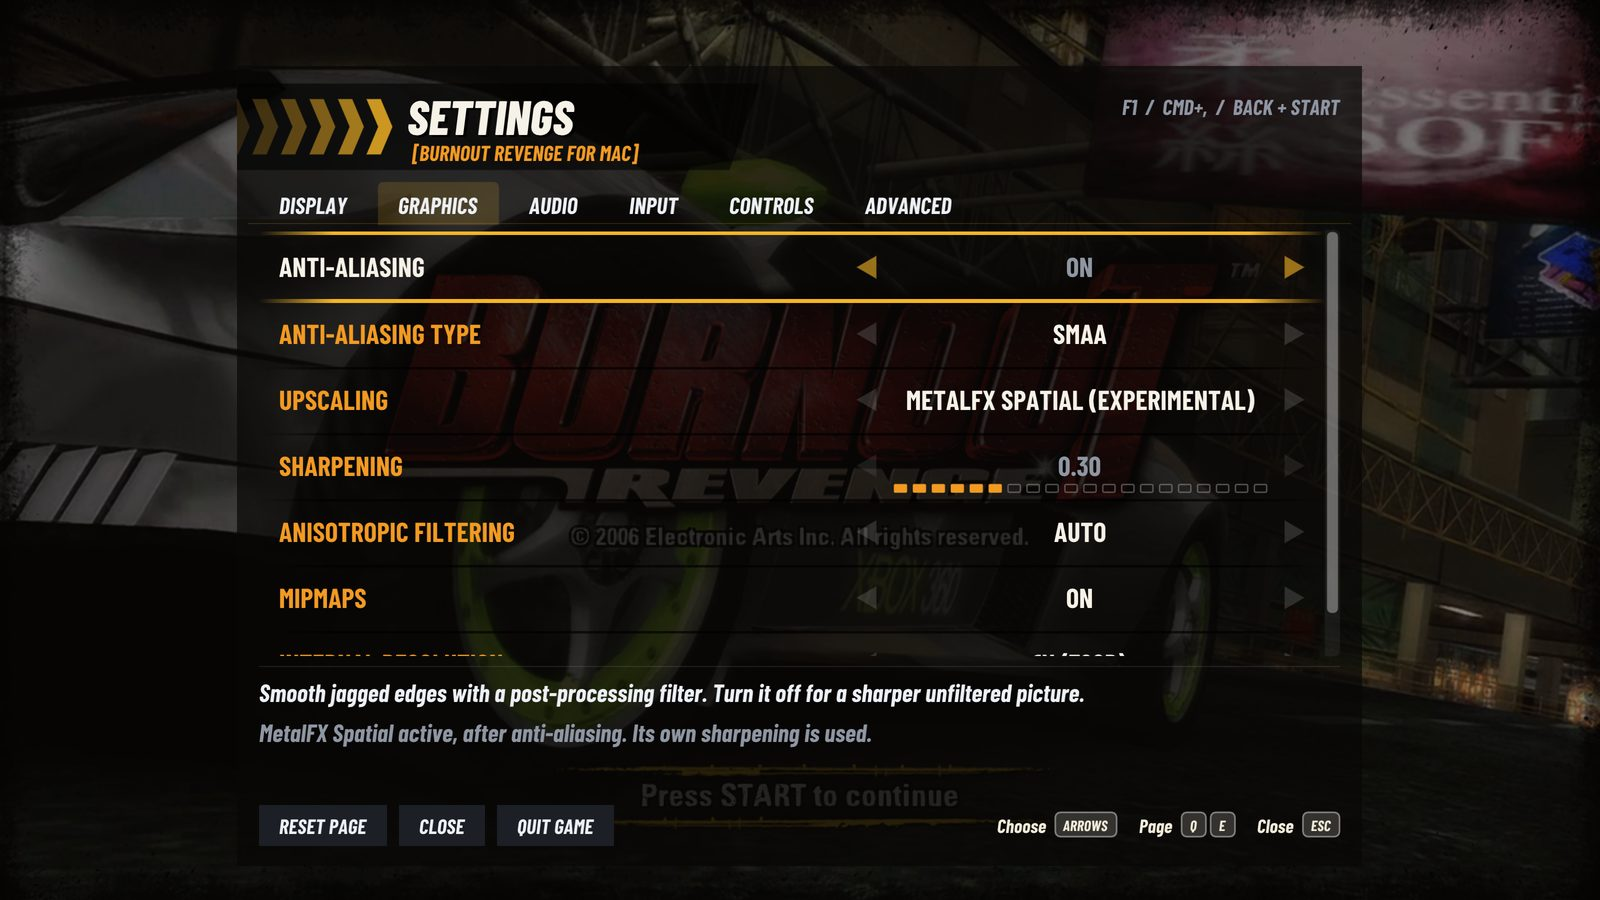
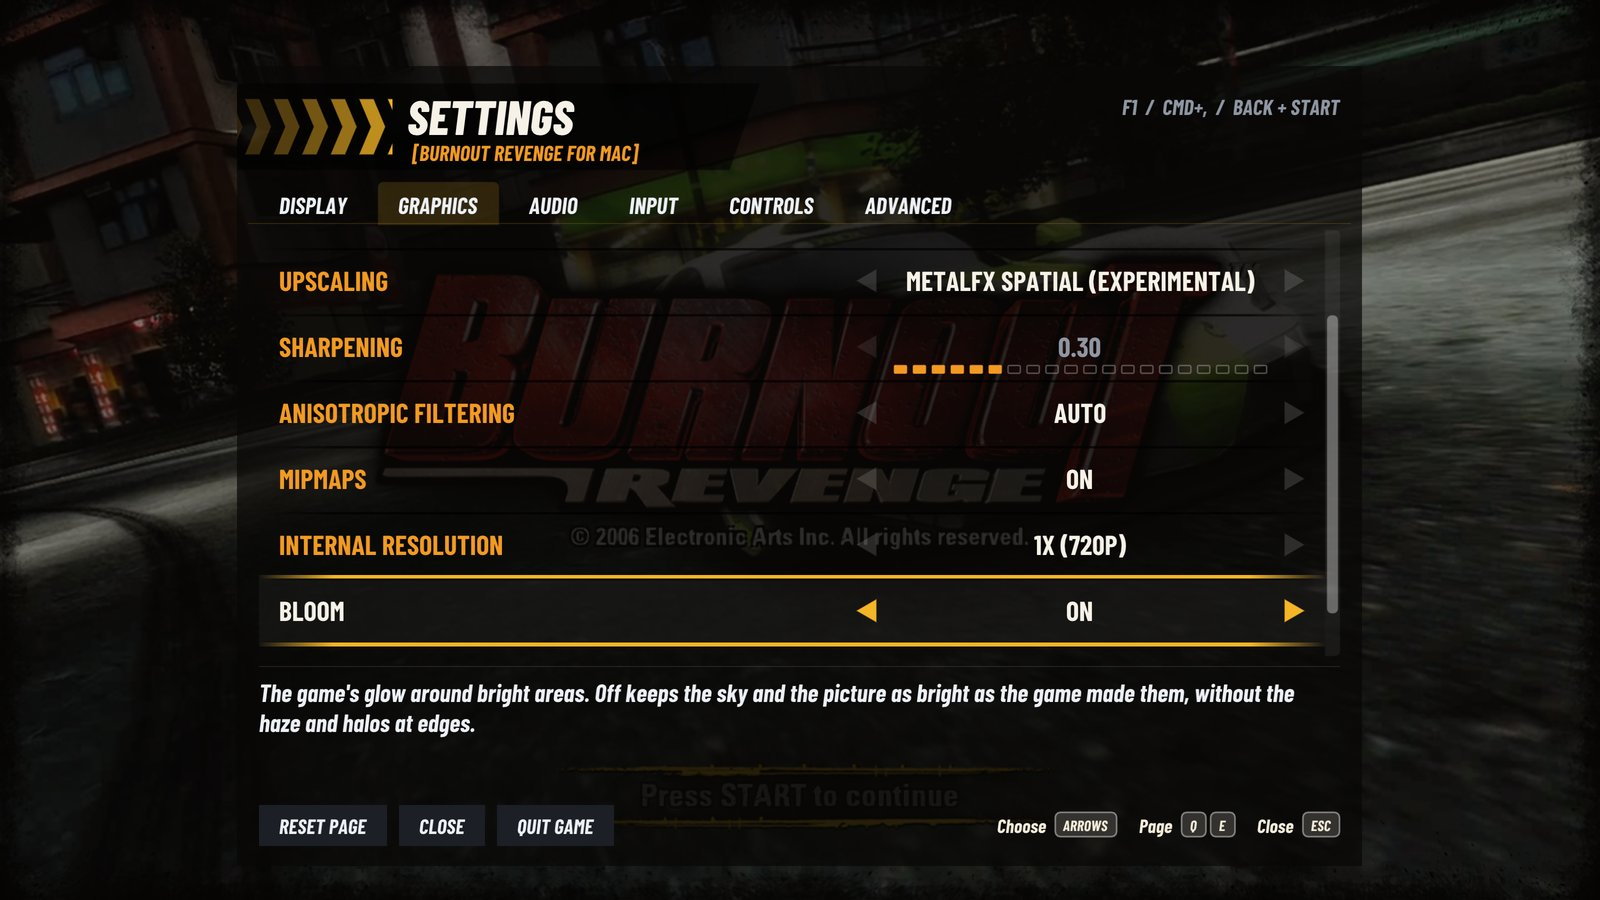
Prepare v0.1.9: README with the game's button prompts, Bloom and Motion Blur, new screenshots

diff --git a/README.md b/README.md
@@ -45,7 +45,7 @@
     <td width="50%"><img src="docs/screenshots/race-wide-window.jpg" alt="A race in the same wide window: the scene widens to the edges, the HUD keeps its shape"><br><sub>Wide windows show more of the road (Hor+).</sub></td>
   </tr>
   <tr>
-    <td width="50%"><img src="docs/screenshots/settings-graphics.jpg" alt="The port's settings menu over the title screen, on the Graphics page: Anti-Aliasing, SMAA, MetalFX Spatial upscaling, Sharpening, Anisotropic Filtering, Mipmaps"><br><sub>The port's settings, Graphics page.</sub></td>
+    <td width="50%"><img src="docs/screenshots/race-bloom-off-dualsense.jpg" alt="Traffic Attack with Bloom off: a blue sky, palms and buildings crisp against it, and PRESS cross TO BOOST with a DualSense"><br><sub>Bloom off, the sky kept; the game's prompts for a DualSense.</sub></td>
     <td width="50%"><img src="docs/screenshots/setup-make-it-yours.jpg" alt="The first-run setup on its second page: the cover art on the left, the install folder and the add-on car packs on the right"><br><sub>First-run setup.</sub></td>
   </tr>
 </table>
@@ -81,8 +81,12 @@
 - Any window shape: a wider window shows more at the sides (Hor+), a taller one
   (16:10, 4:3) more above and below (Vert+), with the HUD kept in shape.
   Widescreen keeps the original 16:9 with bars.
+- Bloom and Motion Blur switches. Bloom off removes the game's haze and the
+  glow round edges but keeps its bright blue sky: the glow is kept where it
+  comes from rather than switched off. Motion Blur off keeps speed sharp.
 - 60 fps, as the console. Fullscreen, V-Sync, and Cmd+H and Cmd+Tab that work
-  in fullscreen.
+  in fullscreen. On an external 144 or 165 Hz monitor, a one-time note says how
+  to set it to a rate 60 fps divides evenly.
 
 **Sound and music**
 
@@ -99,8 +103,10 @@
   (Share + Options on a DualSense) opens the settings anywhere.
 - Full keyboard play. Every Xbox 360 control can take two keys, remapped in
   the Controls page; bindings are physical keys, so they work on any layout.
-- Button hints in the port's menus follow the device you use: PlayStation
-  shapes, Xbox buttons or key caps.
+- Button prompts follow the device you use, in the port's menus and in the
+  game's own (menus, Replay, "PRESS TO BOOST!"): PlayStation shapes with a
+  DualSense, your keys as Mac key caps with the keyboard, Xbox buttons
+  otherwise. Settings > Input > Button Prompts can keep one set.
 
 **A menu in the game's own style**
 
@@ -118,6 +124,7 @@
   let the game find `XBOX360/454107DC/00000002` on a mounted drive.
 - Save backups: each launch backs up your saves when they changed (the newest
   10 are kept). Settings > Advanced > Save Backups restores one.
+- Skip Intro Movies (on by default): the title screen in about 8 seconds.
 - Save Bug Report gathers the logs and settings into one file; Check for
   Updates asks GitHub for a newer release.
 
@@ -156,20 +163,23 @@ Open with **F1**, **Cmd+,** or **Back + Start**. LB/RB (Q/E) switch pages.
 
 <table>
   <tr>
-    <td width="33%"><img src="docs/screenshots/settings-display.jpg" alt="Settings, Display page: Fullscreen, V-Sync, Frame Rate, Aspect Ratio, Brightness, Xbox 360 Display Gamma"><br><sub>Display.</sub></td>
-    <td width="33%"><img src="docs/screenshots/settings-graphics.jpg" alt="Settings, Graphics page"><br><sub>Graphics.</sub></td>
-    <td width="33%"><img src="docs/screenshots/settings-audio-my-music.jpg" alt="Settings, Audio page: Music set to My Music, Music Folder with 2 files"><br><sub>Audio, with My Music.</sub></td>
+    <td width="50%"><img src="docs/screenshots/settings-display.jpg" alt="Settings, Display page: Fullscreen, V-Sync, Frame Rate, Aspect Ratio, Brightness, Xbox 360 Display Gamma"><br><sub>Display.</sub></td>
+    <td width="50%"><img src="docs/screenshots/settings-graphics.jpg" alt="Settings, Graphics page scrolled to Bloom, with its description"><br><sub>Graphics, Bloom.</sub></td>
+  </tr>
+  <tr>
+    <td width="50%"><img src="docs/screenshots/settings-audio-my-music.jpg" alt="Settings, Audio page: Music set to My Music, Music Folder with 2 files"><br><sub>Audio, with My Music.</sub></td>
+    <td width="50%"><img src="docs/screenshots/settings-input.jpg" alt="Settings, Input page: Button Prompts set to Auto"><br><sub>Input, Button Prompts.</sub></td>
   </tr>
 </table>
 
 | Page | What's there |
 |---|---|
 | Display | Fullscreen, V-Sync, Frame Rate, Aspect Ratio (fill any window, or 16:9), Brightness, Xbox 360 Display Gamma |
-| Graphics | Anti-Aliasing and its type (SMAA, FXAA), Upscaling (Bicubic, Bilinear, FSR 1, MetalFX Spatial), Sharpening, Anisotropic Filtering, Mipmaps, Internal Resolution |
+| Graphics | Anti-Aliasing and its type (SMAA, FXAA), Upscaling (Bicubic, Bilinear, FSR 1, MetalFX Spatial), Sharpening, Anisotropic Filtering, Mipmaps, Internal Resolution, Bloom, Motion Blur |
 | Audio | Master Volume, Mute, Mute in Background, Music (EA Trax or My Music), Music Folder |
-| Input | Stick and trigger deadzones, Vibration, DualSense raw HID driver |
+| Input | Stick and trigger deadzones, Vibration, Button Prompts (Auto, Xbox, PlayStation, Keyboard), DualSense raw HID driver |
 | Controls | Two keys for each Xbox 360 control |
-| Advanced | Asynchronous Shaders, Performance Overlay, Auto-import Add-ons, Save Bug Report, Check for Updates, Add-ons, Save Backups, About |
+| Advanced | Asynchronous Shaders, Performance Overlay, Auto-import Add-ons, Skip Intro Movies, Save Bug Report, Check for Updates, Add-ons, Save Backups, About |
 
 A good start on an M1 Pro: 1.5x internal resolution (1080p), SMAA, Bicubic,
 sharpening 0.3 and 16x anisotropic filtering. Use 1x if the GPU can't keep
@@ -200,10 +210,8 @@ Every key can be changed in Settings > Controls.
   may behave differently. USB is the fallback for a Bluetooth pad.
 - A complete career playthrough isn't verified yet. Online play and Xbox Live
   don't work.
-- 57 rarely used system functions are still stubs; none was called in tested
-  races.
-- The game's own button prompts (inside its menus and HUD) still show Xbox 360
-  buttons.
+- 46 rarely used system functions (network and Xbox Live) are still stubs;
+  none was called in tested races.
 - Live frame generation is not enabled.
 
 More detail: [progress and limitations](docs/PROGRESS.md),
@@ -212,7 +220,7 @@ More detail: [progress and limitations](docs/PROGRESS.md),
 ## Origins and license
 
 Built on [SpeedBreaker](https://github.com/SpeedBreakerProject/speedbreaker)
-(its v0.1.6 runtime) and the Burnout research in
+(its v0.1.6 runtime, with v0.1.7's refresh-rate note) and the Burnout research in
 [Xbox360-Native-Ports](https://github.com/CrownParkComputing/Xbox360-Native-Ports/releases/tag/burnoutrevenge-v1).
 It also relies on XenonRecomp, Xenia research, SDL, MoltenVK, FFmpeg, AMD
 FidelityFX, SMAA, Dear ImGui and the Barlow Condensed fonts; see

diff --git a/CHANGELOG.md b/CHANGELOG.md
@@ -1,25 +1,27 @@
 # Changelog
 
-## Unreleased
+## v0.1.9
 
+- The game's own button prompts ("Select", "Exit Replay", "Camera", "PRESS TO
+  BOOST!") show the buttons of the device you use: PlayStation shapes with a
+  DualSense, your keys as Mac key caps with the keyboard, Xbox buttons otherwise.
+  Settings > Input > Button Prompts can keep one set instead (Auto, Xbox,
+  PlayStation, Keyboard).
+- Bloom and Motion Blur switches (Settings > Graphics). Bloom off removes the
+  game's haze and the glow round edges but keeps its bright sky and colours: the
+  glow stays where it comes from instead of being switched off (which turns the
+  sky grey). Motion Blur off keeps the picture sharp at speed. Both apply at once.
+- Skip Intro Movies (Settings > Advanced, on by default): the EA and Criterion
+  logos and the attract film at launch end at once; the title screen shows in
+  about 8 seconds instead of 25.
+- Settings > Audio > Music Folder is greyed out and skipped while Music is EA
+  Trax.
 - A note, once, on an external monitor that runs at a fixed rate 60 fps can't
   divide evenly (144 or 165 Hz), where motion stutters: it says how to set the
   screen to 60 or 120 Hz, or to Variable, in System Settings > Displays. It waits
   for a menu (never mid-race), pauses the game while open, and doesn't come back
   for that rate once closed. Never on a MacBook's ProMotion screen. From
   SpeedBreaker v0.1.7.
-- Bloom and Motion Blur switches (Settings > Graphics). Bloom off removes the
-  game's haze and the glow round edges but keeps its bright sky and colours: the
-  glow stays where it comes from instead of being switched off (which turns the
-  sky grey). Motion Blur off keeps the picture sharp at speed. Both apply at once.
-- The game's own button prompts ("Select", "Exit Replay", "Camera", "PRESS TO
-  BOOST!") show the buttons of the device you use: PlayStation shapes with a
-  DualSense, your keys as Mac key caps with the keyboard, Xbox buttons otherwise.
-  Settings > Input > Button Prompts can keep one set instead (Auto, Xbox,
-  PlayStation, Keyboard).
-- Skip Intro Movies (Settings > Advanced, on by default): the EA and Criterion
-  logos and the attract film at launch end at once; the title screen shows in
-  about 8 seconds instead of 25.
 - Eleven system functions that stopped the game if ever reached now work as on
   the console: the CRT's sprintf, _vsnprintf and DbgPrint, the L2 lock, a
   spinlock try, the title's execution id, XAM's own memory, the "disc
